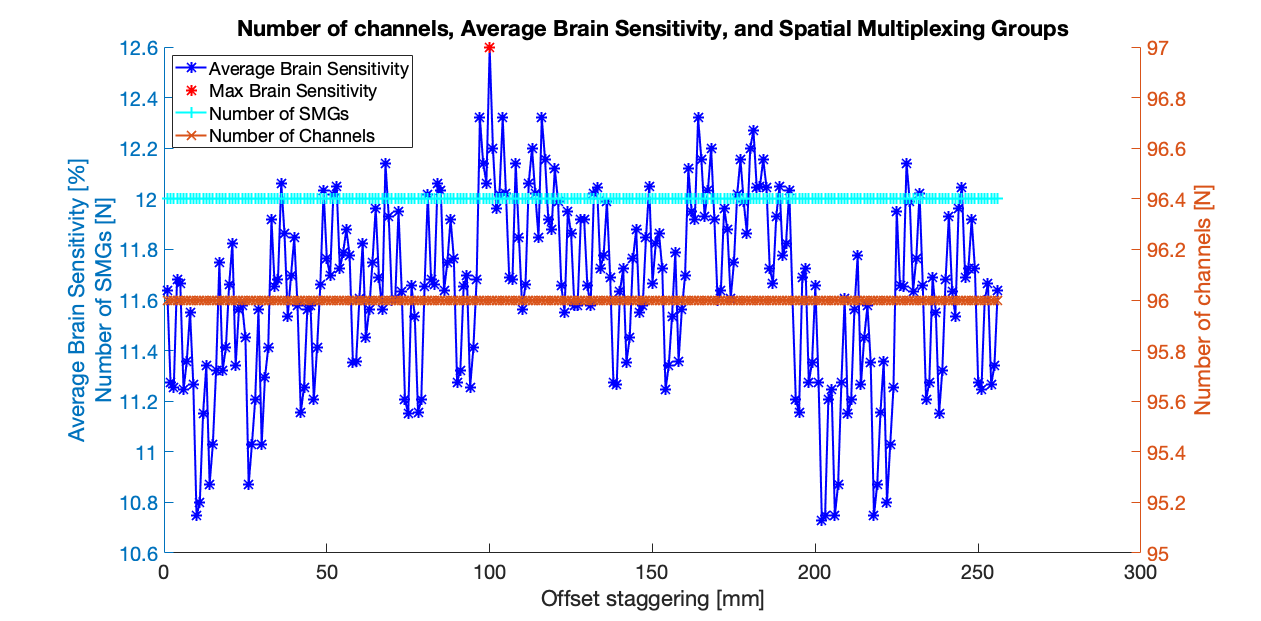
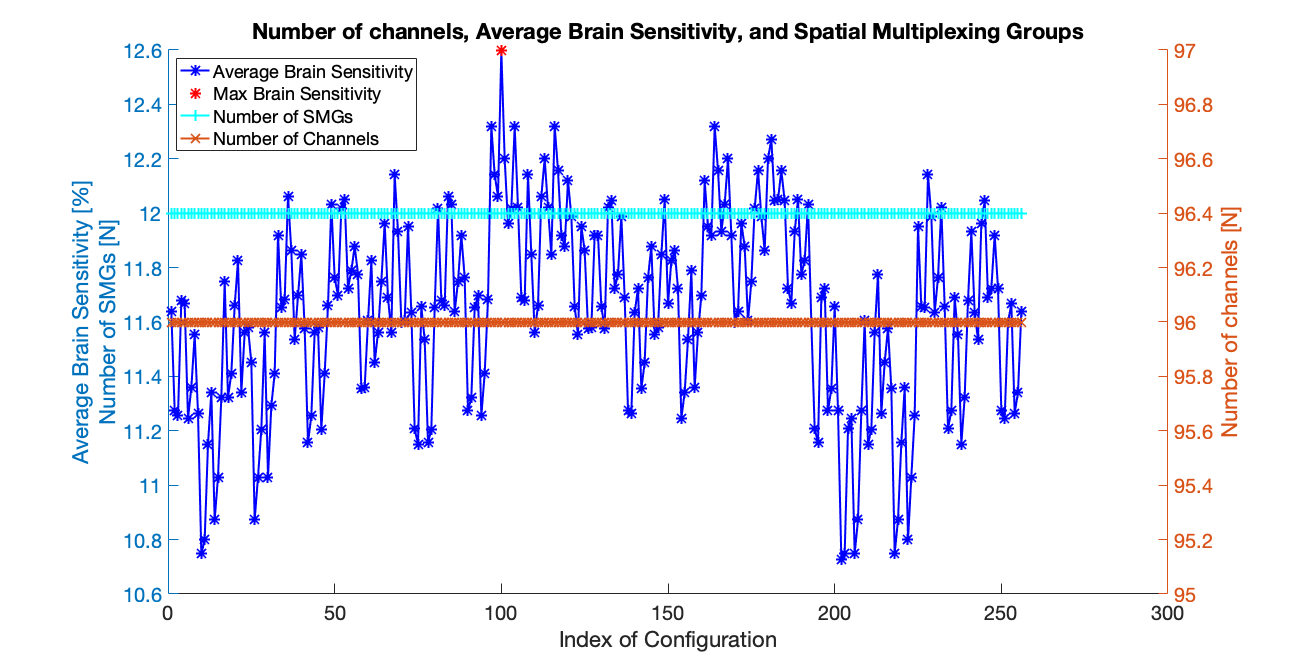
Update axis labels of demo automated scripts

diff --git a/examples/demo_auto_spacing.m b/examples/demo_auto_spacing.m
@@ -56,7 +56,7 @@ plot(maxBSidx, 100*maxBSval, 'r*', 'LineWidth',2, 'MarkerSize',10);
 plot(spacingAmount, ngroups, 'c+-', 'LineWidth',2, 'MarkerSize',10);
 
 ylabel({'Average Brain Sensitivity [%]';'Number of SMGs [N]'})
-xlabel('Offset staggering [mm]');
+xlabel('Space between adjacent modules [mm]');
 
 % right side
 yyaxis right

diff --git a/examples/demo_auto_orientation.m b/examples/demo_auto_orientation.m
@@ -50,7 +50,7 @@ plot(maxBSidx, 100*maxBSval, 'r*', 'LineWidth',2, 'MarkerSize',10);
 plot(1:size(cfgs,2), ngroups, 'c+-', 'LineWidth',2, 'MarkerSize',10);
 
 ylabel({'Average Brain Sensitivity [%]';'Number of SMGs [N]'})
-xlabel('Offset staggering [mm]');
+xlabel('Index of Configuration');
 
 % right side
 yyaxis right
